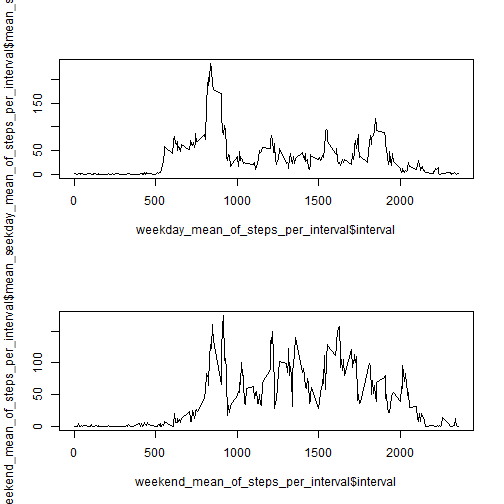
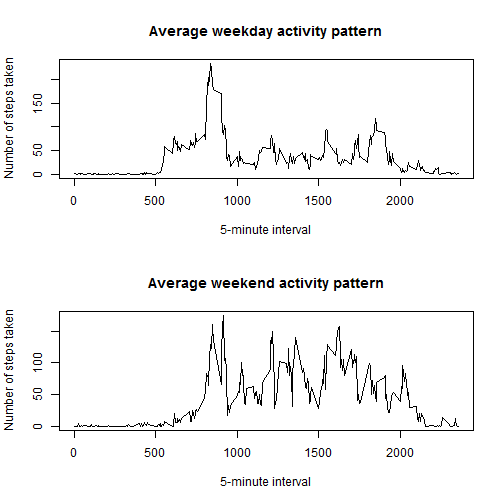
Are there differences in activity patterns between weekdays and weekends?

diff --git a/PA1_template.html b/PA1_template.html
@@ -457,6 +457,8 @@ hist(nona_sum_of_steps_per_day$sum_steps, main = &quot;Total number of steps tak
 
 <h2>Are there differences in activity patterns between weekdays and weekends?</h2>
 
+<p>Let&#39;s look at a time series plot of the 5-minute interval and the average number of steps taken, averaged across all weekday days or weekend days.</p>
+
 <pre><code class="r">datetype_data &lt;- mutate(data, day_type = as.factor(ifelse(weekdays(as.Date(nona_data$date)) %in% c(&quot;суббота&quot;, &quot;воскресенье&quot;), &#39;weekend&#39;, &#39;weekday&#39;)))
 datetype_steps_per_interval &lt;- group_by(datetype_data, interval, day_type)
 datetype_mean_of_steps_per_interval &lt;- summarise(datetype_steps_per_interval, mean_steps = mean(steps, na.rm=TRUE))
@@ -464,11 +466,11 @@ datetype_mean_of_steps_per_interval &lt;- summarise(datetype_steps_per_interval,
 weekday_mean_of_steps_per_interval &lt;- filter(datetype_mean_of_steps_per_interval, day_type == &quot;weekday&quot;)
 weekend_mean_of_steps_per_interval &lt;- filter(datetype_mean_of_steps_per_interval, day_type == &quot;weekend&quot;)
 par(mfrow = c(2, 1))
-plot(weekday_mean_of_steps_per_interval$interval, weekday_mean_of_steps_per_interval$mean_steps, type=&quot;l&quot;)
-plot(weekend_mean_of_steps_per_interval$interval, weekend_mean_of_steps_per_interval$mean_steps, type=&quot;l&quot;)
+plot(weekday_mean_of_steps_per_interval$interval, weekday_mean_of_steps_per_interval$mean_steps, type=&quot;l&quot;, main = &quot;Average weekday activity pattern&quot;, xlab = &quot;5-minute interval&quot;, ylab = &quot;Number of steps taken&quot;)
+plot(weekend_mean_of_steps_per_interval$interval, weekend_mean_of_steps_per_interval$mean_steps, type=&quot;l&quot;, main = &quot;Average weekend activity pattern&quot;, xlab = &quot;5-minute interval&quot;, ylab = &quot;Number of steps taken&quot;)
 </code></pre>
 
[2 lines of base64/hex data omitted]
 
 </body>
 
